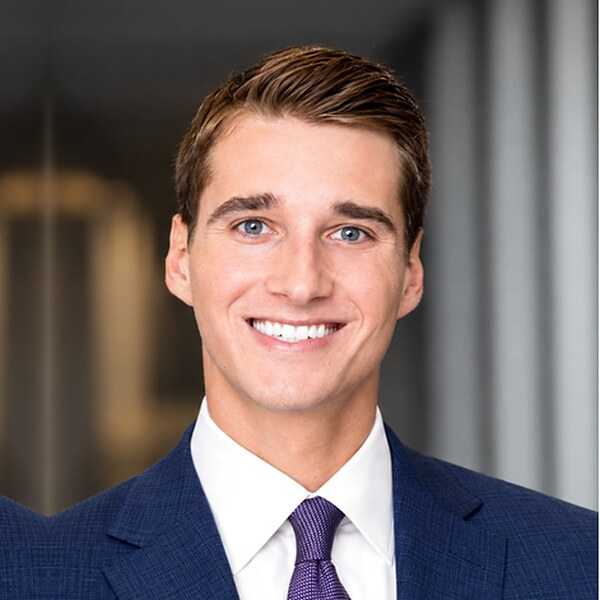
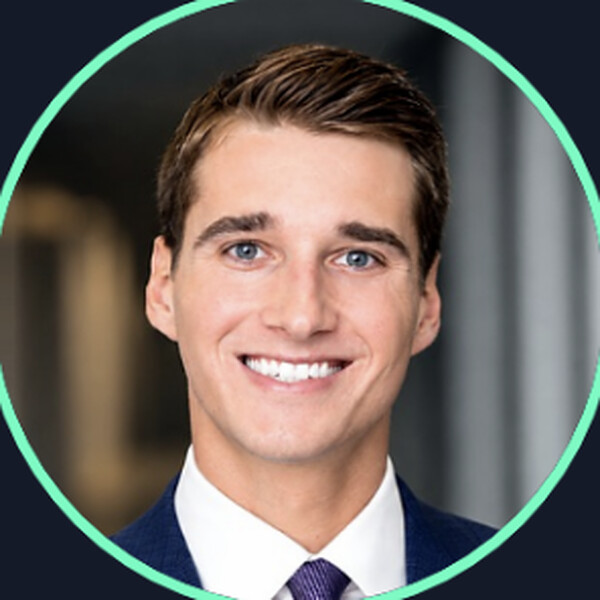
Signature wordmark reads "Chairlift"; founder photo taken from signature
Ryan settled the wordmark: capital C, rest lowercase, one colour, no
Neon "AI". Founder photo now matches the approved signature exactly.

Claude-Session: https://claude.ai/code/session_01PqypBjMi1UyX8TYwUtHGTE

diff --git a/brand/index.html b/brand/index.html
@@ -170,7 +170,7 @@
   <div class="wrap">
     <div class="sec-head"><h2>Neon accents <span class="tag">Confirmed</span></h2><p>Neon ties the page to the logo, used in a few small places only. Everything else is Midnight Ink on light backgrounds and white on Ink.</p></div>
     <div class="do-dont">
-      <div class="do"><h3>Where Neon is used</h3><ul><li>The top step of the logo icon (website, favicon and email)</li><li>The up-right arrow after "Make the climb easier"</li><li>The short bar above the hero headline</li><li>The short bars above titles on Ink sections</li><li>The "After" label on Ink</li><li>The ring around the founder photo on Who we are (matches the email signature)</li><li>Email signatures only: the Ink signature's headshot ring, divider line, "FOUNDER" label and the "AI" in CHAIRLIFT</li></ul></div>
+      <div class="do"><h3>Where Neon is used</h3><ul><li>The top step of the logo icon (website, favicon and email)</li><li>The up-right arrow after "Make the climb easier"</li><li>The short bar above the hero headline</li><li>The short bars above titles on Ink sections</li><li>The "After" label on Ink</li><li>The ring around the founder photo on Who we are (matches the email signature)</li><li>Email signatures only: the Ink signature's headshot ring, divider line, "FOUNDER" label</li></ul></div>
       <div class="dont"><h3>Where Neon is not used on the website</h3><ul><li>Text, key words, highlights or underlines</li><li>Check marks, buttons or tags</li><li>Bars above titles on white or grey sections (these stay Ink)</li><li>The heading "Where we usually start." (never a line, bar, underline or highlight)</li></ul></div>
     </div>
   </div>
@@ -211,7 +211,7 @@
   <div class="wrap">
     <div class="sec-head"><h2>Email signature <span class="tag">Confirmed</span></h2><p>One approved version: the Ink signature. Open the file in a browser, copy the signature and paste it into Titan → Settings → Signature. A White version is still being worked on and is not published.</p></div>
     <div class="grid">
-      <div class="tile sig"><img src="/brand/signature-ink.png" alt="Ink email signature"><h3>Ink</h3><p>Ink box with a Neon headshot ring, divider line and "FOUNDER", a white name, and CHAIRLIFT with a Neon "AI" and a thin white line above the slogan. Stands out in outreach.</p><a class="dl" href="/brand/email-signature-ink.html">Open signature file</a></div>
+      <div class="tile sig"><img src="/brand/signature-ink.png" alt="Ink email signature"><h3>Ink</h3><p>Ink box with a Neon headshot ring, divider line and "FOUNDER", a white name, and the wordmark "Chairlift" (capital C, the rest lowercase, all white) with a thin white line above the slogan. Stands out in outreach.</p><a class="dl" href="/brand/email-signature-ink.html">Open signature file</a></div>
     </div>
   </div>
 </section>
@@ -239,7 +239,6 @@
   <div class="wrap">
     <div class="sec-head"><h2>Open decisions</h2><p>Pinned for later. Nothing here is final.</p></div>
     <ul class="log">
-      <li><b>AI accent in the wordmark:</b> whether to highlight the "AI" in CH<b>AI</b>RLIFT (currently Neon on the Ink signature only). Decide after collecting outside feedback.</li>
       <li><b>White signature:</b> not approved and not published. A draft is saved privately in the project for later; a final design is still to be worked out.</li>
     </ul>
   </div>
@@ -249,6 +248,8 @@
   <div class="wrap">
     <div class="sec-head"><h2>Change log</h2><p>Every brand decision, newest first.</p></div>
     <ul class="log">
+      <li><b>Oct 5, 2026</b>: Wordmark decided everywhere, including the email signature: "Chairlift" with a capital C and the rest lowercase, one colour. No all caps and no Neon "AI".</li>
+      <li><b>Oct 5, 2026</b>: Founder photo is now taken straight from the approved Ink signature, so the website and the signature match exactly.</li>
       <li><b>Oct 5, 2026</b>: New founder photo (smiling, navy suit, purple tie) is now the only approved photo of Ryan, on the website and in the email signature. Framed like the email signature: head and shoulders, centred on his face.</li>
       <li><b>Oct 5, 2026</b>: Founder photo on Who we are now matches the email signature: round, with a Neon ring.</li>
       <li><b>Oct 5, 2026</b>: Hero staircase, dotted line and square removed for good. Neon brought back in small doses: the hero arrow, the bar above the hero headline, the bars above titles on Ink sections and the "After" label. Wordmark "Chairlift" lightened to SemiBold (600).</li>

diff --git a/brand/email-signature-ink.html b/brand/email-signature-ink.html
@@ -27,7 +27,7 @@
               <tr>
                 <td style="vertical-align:middle;padding:0 10px 0 0;"><a href="https://usechairlift.com"><img src="https://usechairlift.com/images/email-logo-dark.png" width="38" height="38" alt="Chairlift" style="display:block;width:38px;height:38px;border:0;"></a></td>
                 <td style="vertical-align:middle;">
-                  <p style="margin:0;font-size:13px;line-height:17px;font-weight:bold;letter-spacing:1.6px;color:#FFFFFF;">CH<span style="color:#3DFFC1;">AI</span>RLIFT</p>
+                  <p style="margin:0;font-size:14px;line-height:18px;font-weight:bold;letter-spacing:0.3px;color:#FFFFFF;">Chairlift</p>
                   <p style="margin:3px 0 0;padding-top:3px;border-top:1px solid #FFFFFF;font-size:10px;line-height:12px;font-style:italic;color:#B9C0CC;">Make the climb easier.</p>
                 </td>
               </tr>

diff --git a/tools/signature.py b/tools/signature.py
@@ -15,9 +15,9 @@ def sig(dark):
     role = "#3DFFC1"
     tag = "#B9C0CC" if dark else "#55595F"
     if dark:
-        wordmark = f'<p style="margin:0;font-size:13px;line-height:17px;font-weight:bold;letter-spacing:1.6px;color:{text};">CH<span style="color:#3DFFC1;">AI</span>RLIFT</p>'
+        wordmark = f'<p style="margin:0;font-size:14px;line-height:18px;font-weight:bold;letter-spacing:0.3px;color:{text};">Chairlift</p>'
         slogan = f'<p style="margin:3px 0 0;padding-top:3px;border-top:1px solid #FFFFFF;font-size:10px;line-height:12px;font-style:italic;color:{tag};">Make the climb easier.</p>'
-    else:  # White version: unchanged from the published design (pending a decision on the capitals / AI accent)
+    else:
         wordmark = f'<p style="margin:0;font-size:14px;line-height:18px;font-weight:bold;letter-spacing:0.3px;color:{text};">Chairlift</p>'
         slogan = f'<p style="margin:1px 0 0;font-size:10px;line-height:12px;font-style:italic;color:{tag};">Make the climb easier.</p>'
     logo = "email-logo-dark.png" if dark else "email-logo.png"

diff --git a/CLAUDE.md b/CLAUDE.md
@@ -21,7 +21,7 @@ Static site for Chairlift, hosted on Netlify. Every push to `main` publishes the
 - If Ryan says "teal" or "mint" he means Chairlift Neon.
 - Colour names: **Midnight Ink** `#141B2A` ("Ink") and **Chairlift Neon** `#3DFFC1` ("Neon"). On the website, Neon is used only for: the logo's top step, the hero arrow after "Make the climb easier", the short bar above the hero headline, the short bars above titles on Ink sections, the "After" label on Ink, and the ring around the round founder photo on Who we are (matches the email signature). Nothing else: no Neon text, highlights, underlines, check marks or buttons. Use Ink on light backgrounds, white on Ink. "Where we usually start." never gets a highlight or underline.
 - Layout: straight section edges, white cards on Ink sections, two Ink sections never touch. NEVER any staircase graphic, dotted line or square decoration outside the logo (Ryan: "never want to see that again"). Exception: the homepage "What we take off your team's plate" cards (first white, others lighter Ink).
-- Wordmark `Chairlift` (capital C, Hanken Grotesk SemiBold 600), never all caps. Headings display in capitals; body copy stays sentence case.
+- Wordmark `Chairlift` (capital C, Hanken Grotesk SemiBold 600), never all caps and never a different colour on the "AI" (website and email signature alike). Headings display in capitals; body copy stays sentence case.
 - Founder photo: only ever use the smiling headshot (navy suit, purple tie) in `images/ryan-peddigrew.jpg` (website) and `images/email-headshot.jpg` (signature). Framed like the approved email signature: head and shoulders, centred on his face, in a round frame with a Neon ring. Never use any other photo of Ryan.
 - Never say "one point of contact" (or similar) anywhere on the site. Ryan dropped it.
 - Footer links stay short: no "Who we help" (it lives in the main menu only).
@@ -31,6 +31,5 @@ Static site for Chairlift, hosted on Netlify. Every push to `main` publishes the
 - Voice: professional and friendly. Don't assume a prospect's size, budget or competitors.
 
 ## Open decisions (pinned)
-- Whether to highlight the "AI" in CH**AI**RLIFT (Neon on the Ink email signature only for now). Don't extend it to the website or the White signature until Ryan decides.
 - Only the Ink email signature is approved and published. The White signature is NOT approved: keep it off the live site. A draft lives on the `draft/white-signature` branch. Build it only with `python3 tools/signature.py --include-white`.
 - Only publish what Ryan approves.
